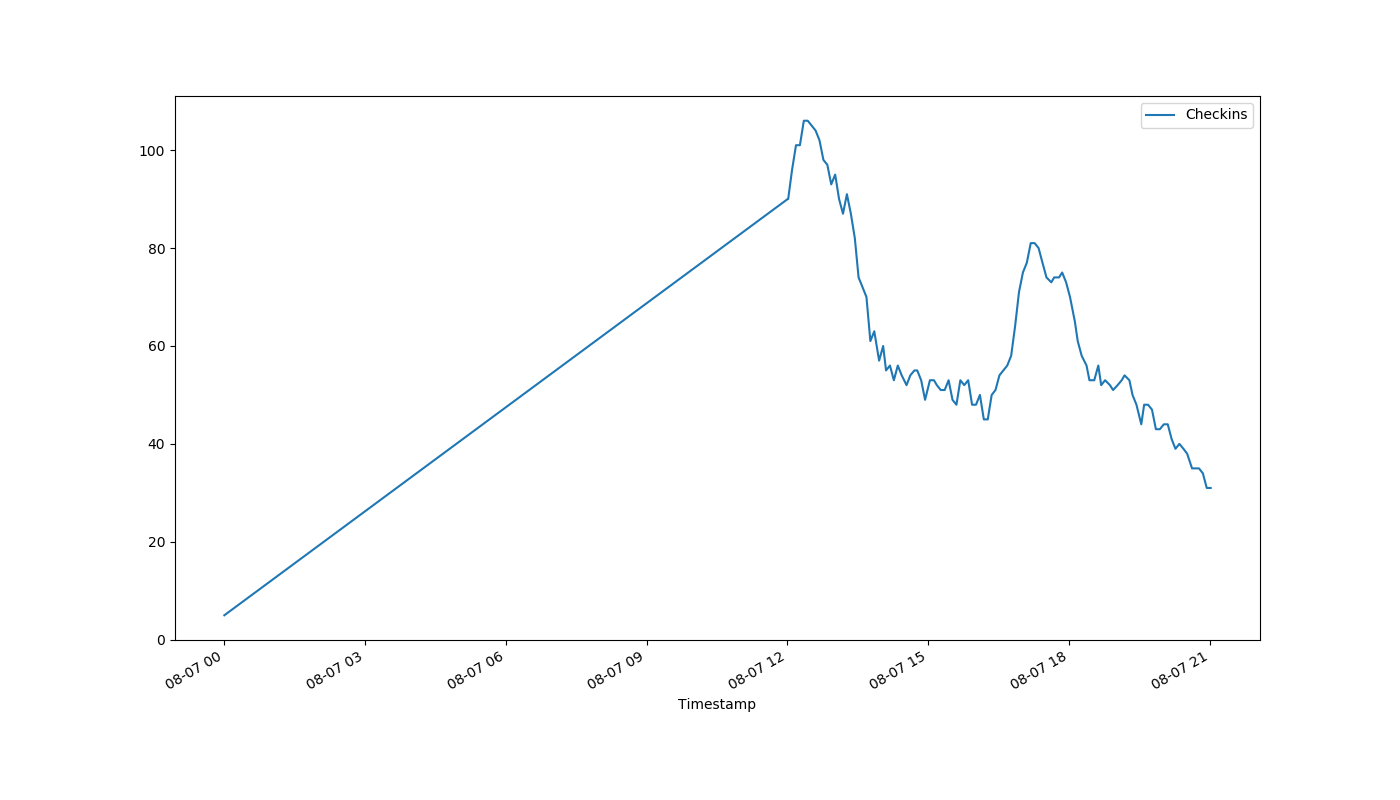
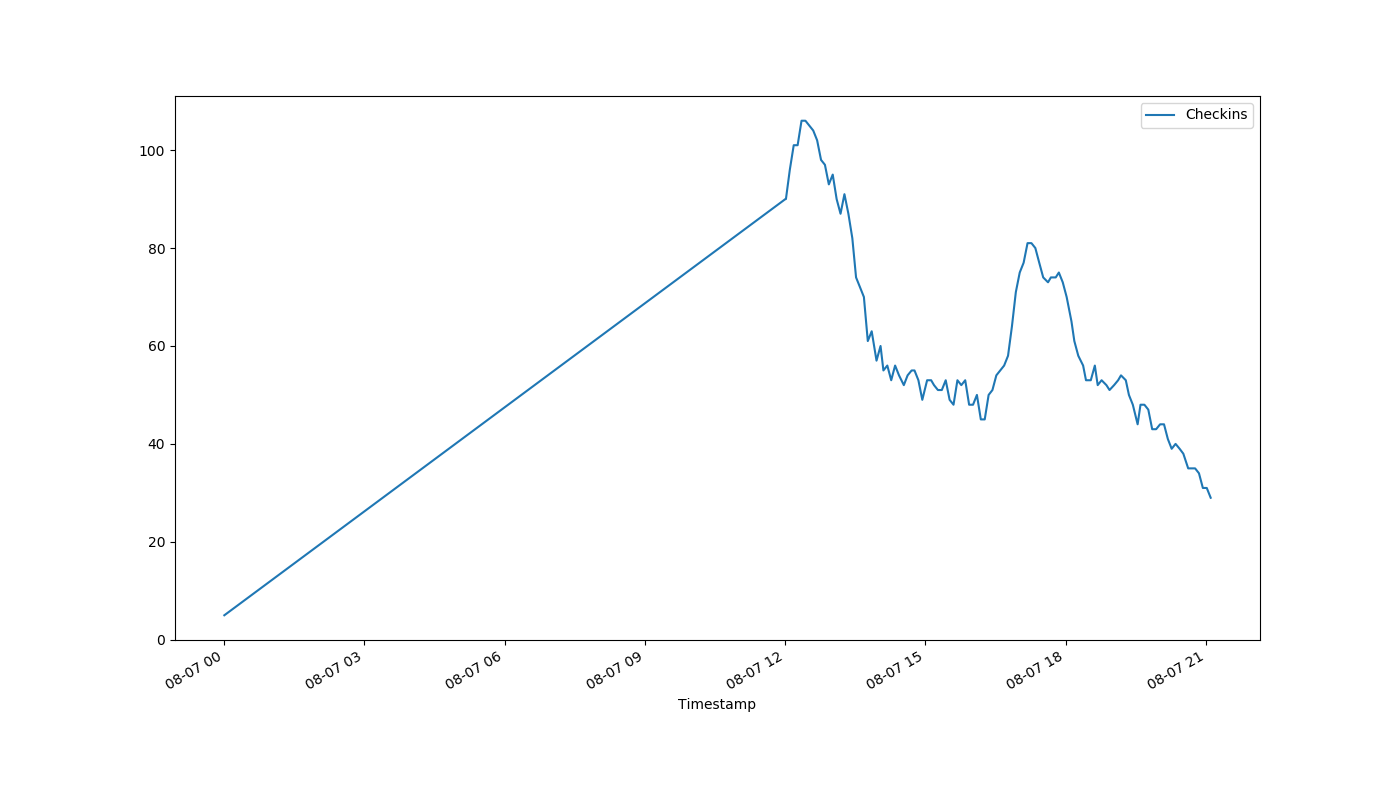
auto-Aug-07-21:06:25

diff --git a/index.html b/index.html
@@ -1,1 +1,1 @@
-<!DOCTYPE html><html><head><meta http-equiv="refresh" content="30"><link rel='stylesheet' href='holmcurrent.css'></head><body><p id='count'>31</p><div id='graph-wrap'><img id='graph' src='holmgraph-Aug-07.png'></div><p id='updated'>Last updated 21:01:11 / 21:01:06</p></body></html>
+<!DOCTYPE html><html><head><meta http-equiv="refresh" content="30"><link rel='stylesheet' href='holmcurrent.css'></head><body><p id='count'>29</p><div id='graph-wrap'><img id='graph' src='holmgraph-Aug-07.png'></div><p id='updated'>Last updated 21:06:11 / 21:06:08</p></body></html>
